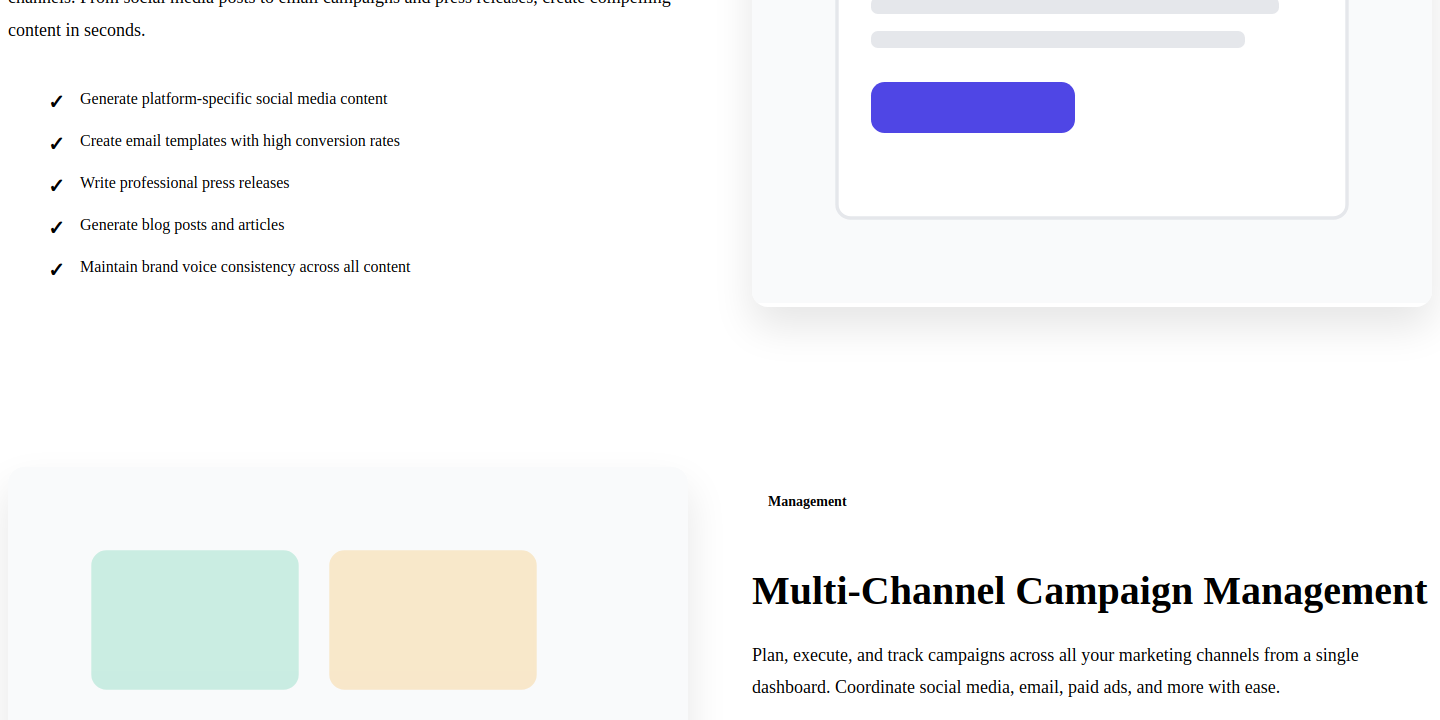
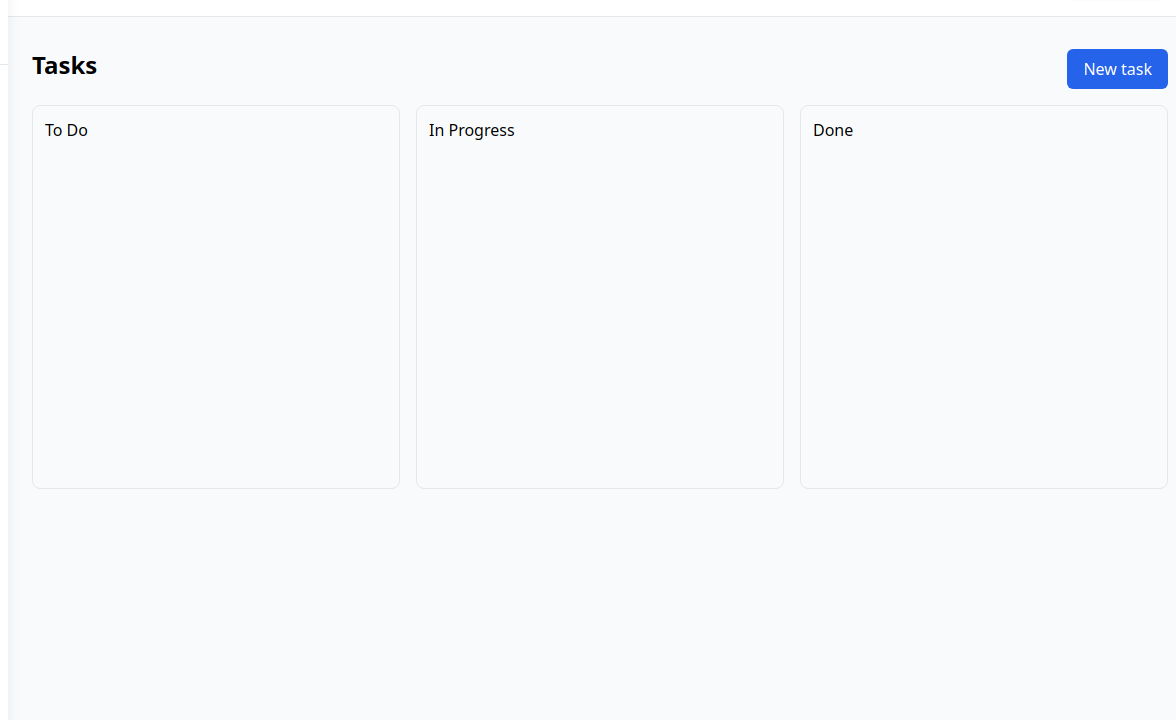
fix(public): replace marketing screenshots and hide duplicate nav CTAs
- Swap hero and product-band images for styled app captures (campaigns/tasks)
- Hide mobile auth links in desktop navbar; show only in collapsed menu

diff --git a/public/css/public.css b/public/css/public.css
@@ -168,6 +168,10 @@ main {
     font-size: 0.875rem;
 }
 
+.navbar-menu-auth {
+    display: none;
+}
+
 .nav-link:hover {
     color: var(--primary);
 }
@@ -930,6 +934,7 @@ main {
     }
 
     .navbar-menu-auth {
+        display: block;
         font-weight: 600;
     }
 
